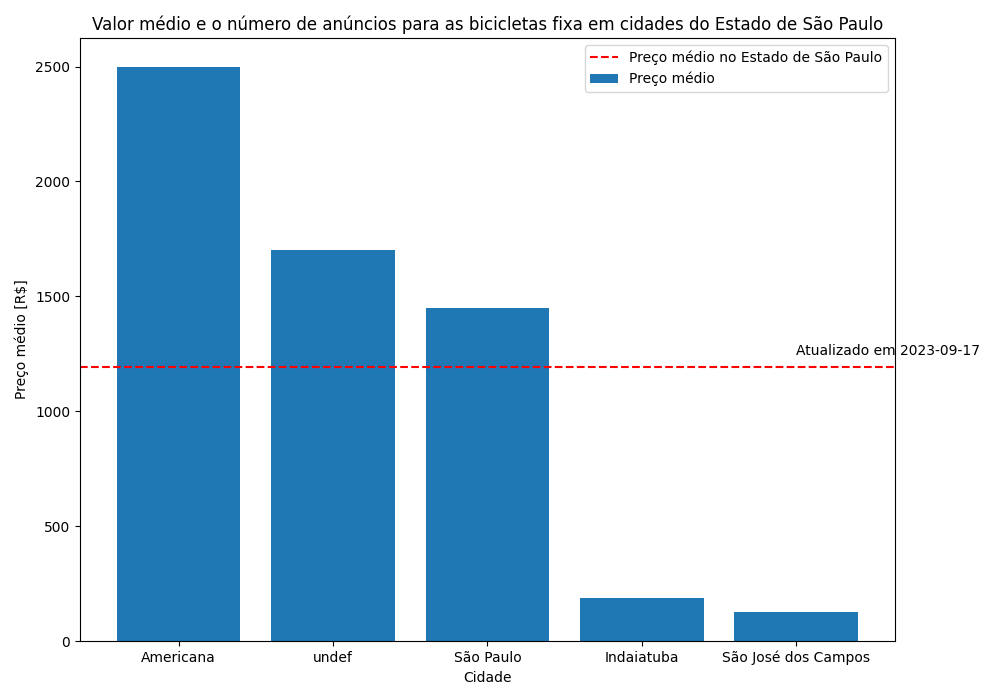
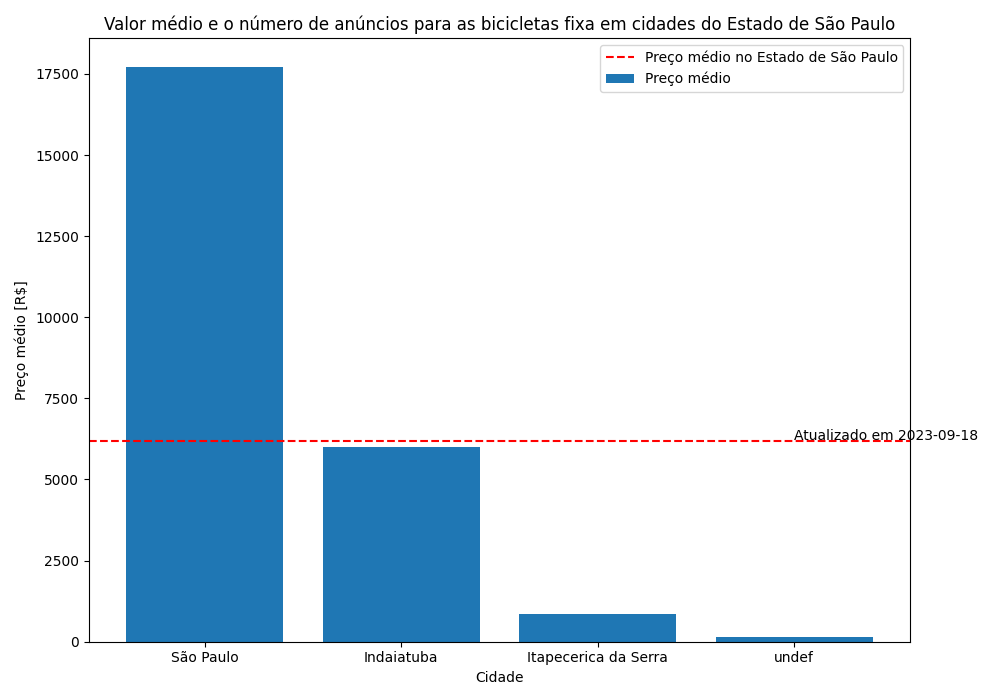
update in analise data

diff --git a/busca_bike_dados.md b/busca_bike_dados.md
@@ -1,9 +1,9 @@
-| dayPost   | nameBike                                                          | city                |   valueBike | urlBike                                                                                                                                     |
-|:----------|:------------------------------------------------------------------|:--------------------|------------:|:--------------------------------------------------------------------------------------------------------------------------------------------|
-| 30/08     | Rolo De Treino Absolute Wild 8 Bike Magnético Fixo C/ Ajuste      | São Paulo           |         370 | https://sp.olx.com.br/sao-paulo-e-regiao/ciclismo/rolo-de-treino-absolute-wild-8-bike-magnetico-fixo-c-ajuste-1209898688                    |
-| 30/08     | Bicicleta Infantil Caloi Snap aro 20 7v 2021 - Nova na caixa      | São Paulo           |         979 | https://sp.olx.com.br/sao-paulo-e-regiao/ciclismo/bicicleta-infantil-caloi-snap-aro-20-7v-2021-nova-na-caixa-1098967403                     |
-| 30/08     | Par de Cubos GTA Rx 32 Furos MTB 8 à 12 Velocidades com Rolamento | São José dos Campos |         129 | https://sp.olx.com.br/vale-do-paraiba-e-litoral-norte/ciclismo/par-de-cubos-gta-rx-32-furos-mtb-8-a-12-velocidades-com-rolamento-1220581056 |
-| 27/08     | Kit Bike 27,5" - Quadro+Rodas+Suspensão+Relação+Freio             | undef               |        1700 | https://sp.olx.com.br/baixada-santista-e-litoral-sul/ciclismo/kit-bike-27-5-quadro-rodas-suspensao-relacao-freio-1227026328                 |
-| 27/08     | GPS Bryton 310                                                    | Indaiatuba          |         190 | https://sp.olx.com.br/grande-campinas/ciclismo/gps-bryton-310-1227023150                                                                    |
-| 26/08     | Bicicleta Caloi City Tour Freios Hidráulico Shimano Zerada        | São Paulo           |        3000 | https://sp.olx.com.br/sao-paulo-e-regiao/ciclismo/bicicleta-caloi-city-tour-freios-hidraulico-shimano-zerada-1226903357                     |
-| 26/08     | Bicicleta Caloi Strada                                            | Americana           |        2500 | https://sp.olx.com.br/grande-campinas/ciclismo/bicicleta-caloi-strada-1200035959                                                            |
+| dayPost   | nameBike                                                                      | city                 |   valueBike | urlBike                                                                                                                                 |
+|:----------|:------------------------------------------------------------------------------|:---------------------|------------:|:----------------------------------------------------------------------------------------------------------------------------------------|
+| 17/09     | Caixa de direção YST G Force                                                  | undef                |         150 | https://sp.olx.com.br/grande-campinas/ciclismo/caixa-de-direcao-yst-g-force-1233162842                                                  |
+| 31/08     | Bike Caloi City Tour Freios Hidráulico Shimano Top                            | São Paulo            |        3000 | https://sp.olx.com.br/sao-paulo-e-regiao/ciclismo/bike-caloi-city-tour-freios-hidraulico-shimano-top-1228676099                         |
+| 28/08     | Bicicleta semi nova Trek Top Fuel 8 2022 (tamanho M/L e M)                    | São Paulo            |       28900 | https://sp.olx.com.br/sao-paulo-e-regiao/ciclismo/bicicleta-semi-nova-trek-top-fuel-8-2022-tamanho-m-l-e-m-1131633552                   |
+| 28/08     | Bicicleta semi nova Trek Procaliber 9.8 2021 (tamanho L) *com nota e garantia | São Paulo            |       34000 | https://sp.olx.com.br/sao-paulo-e-regiao/ciclismo/bicicleta-semi-nova-trek-procaliber-9-8-2021-tamanho-l-com-nota-e-garantia-1023622979 |
+| 28/08     | Bicicleta usada Trek Zektor (tamanho 53)                                      | São Paulo            |        5000 | https://sp.olx.com.br/sao-paulo-e-regiao/ciclismo/bicicleta-usada-trek-zektor-tamanho-53-1186400376                                     |
+| 28/08     | Bicicleta Cannondale Trail 3 aro 29 (XL)                                      | Indaiatuba           |        5999 | https://sp.olx.com.br/grande-campinas/ciclismo/bicicleta-cannondale-trail-3-aro-29-xl-1191640824                                        |
+| 28/08     | Bike track aro 29                                                             | Itapecerica da Serra |         850 | https://sp.olx.com.br/sao-paulo-e-regiao/ciclismo/bike-track-aro-29-1220129282                                                          |
